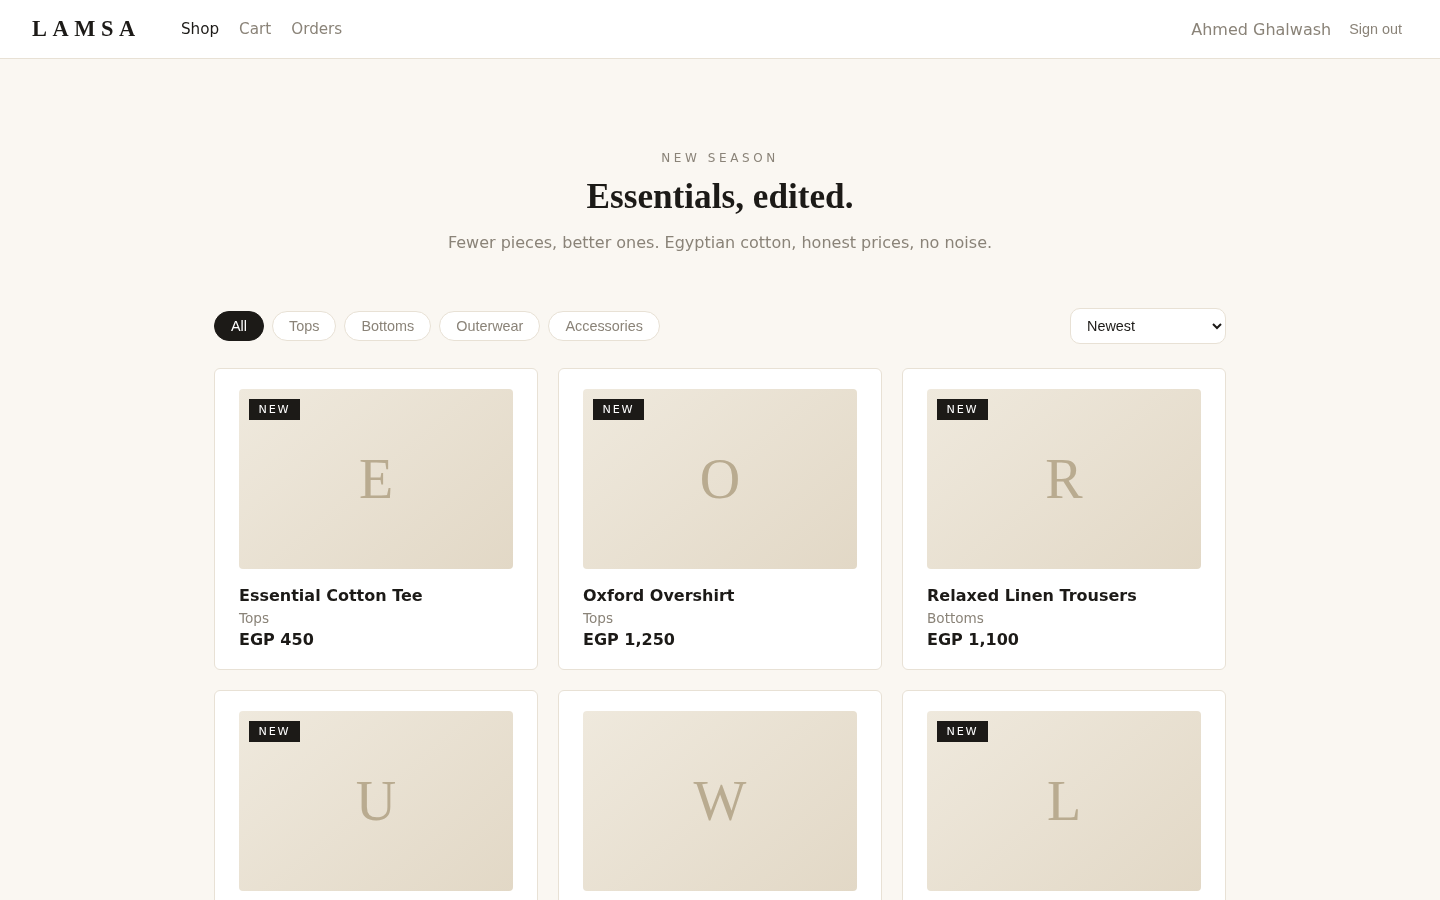
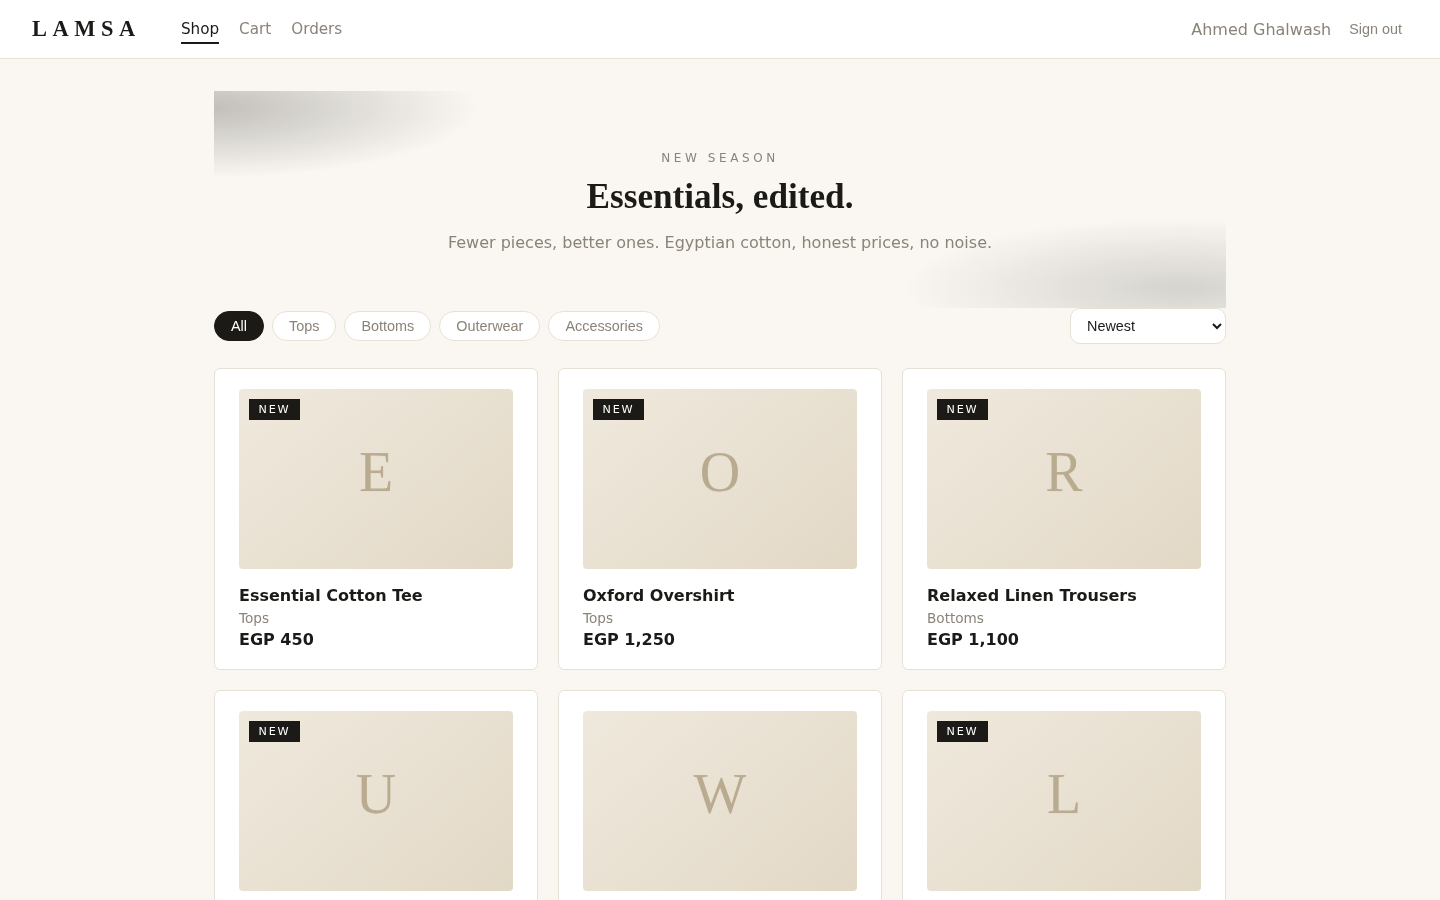
Refresh screenshots and document the motion layer

diff --git a/README.md b/README.md
@@ -13,6 +13,14 @@ Full-stack concept application: a **React 18** single-page client, a **PHP 8 RES
 - Guarded stock decrement (UPDATE ... WHERE stock >= q) so items cannot be oversold
 - Order history with snapshotted names and prices
 
+## Interface
+
+The client ships a hand-written motion layer - CSS keyframes plus a few small React
+helpers, no animation library: staged entrances with per-card stagger, hover lift and
+cover zoom, numbers that count up, charts that draw themselves, an animated seat map and
+boarding pass, confetti only on real success states, and shimmering skeletons while a
+request is in flight. All of it switches off under `prefers-reduced-motion: reduce`.
+
 ## Tech stack
 
 | Layer | Tech |
